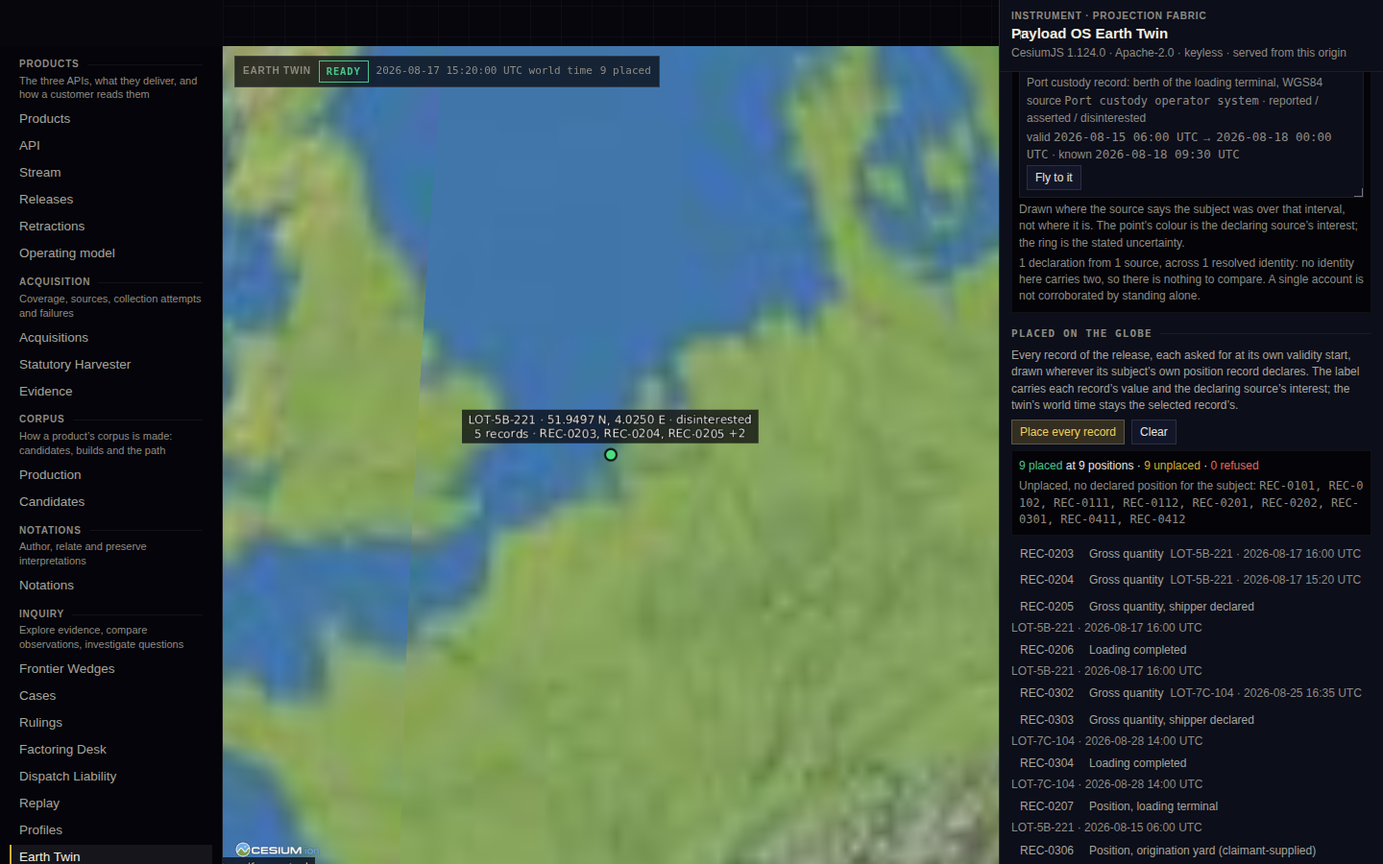
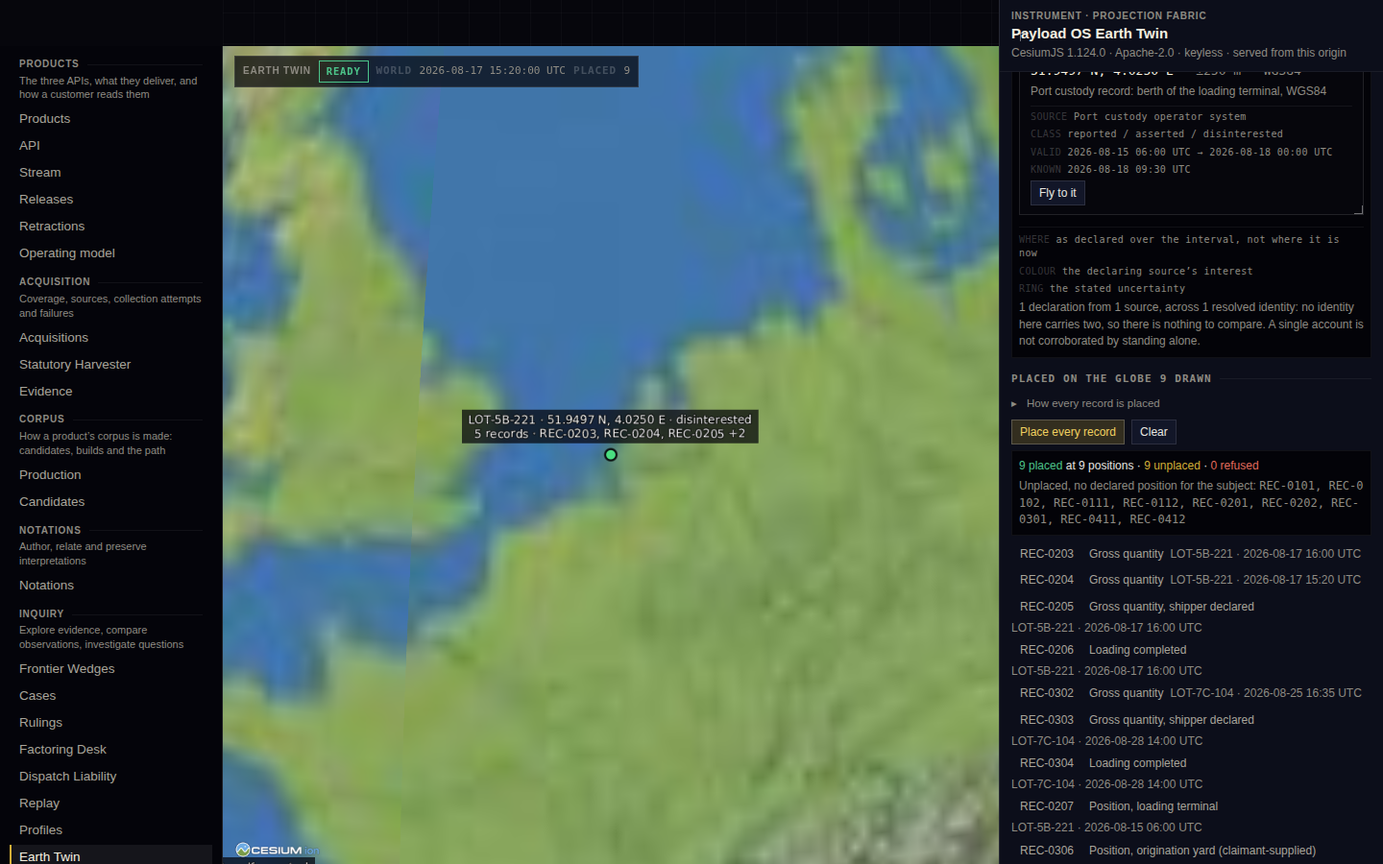
The Earth Twin inspector, dense: readings as ruled lines, provenance as stamps
The references are dense with labelled data and the inspector was dense with
prose. Same information, restructured so a reading is a label and a value and
an explanation is one click away.

The strip over the globe keys its readings. What-this-instrument-is folds with
the engine state in its rule; the renderer string, a hundred characters on a
software GPU, stays in the body because a rule that carried it wrapped the
heading four deep. Time is three ruled readouts, sub-solar DERIVED when the
engine computed it and UNKNOWN when there is no engine to. Corpus-on-the-globe
opens with a RELEASE / VIEW / VIEWER stamp, carries the outcome word in its
rule from the epistemic scale, draws each declared position as a ruled panel
with a SOURCE / CLASS / VALID / KNOWN stamp, and keys its legend as WHERE /
COLOUR / RING. Placed-on-the-globe carries its drawn count and folds the how.
The operator instrument loses a paragraph the rule already said and folds its
two rules behind WRITES NONE. View keys ORBIT / ZOOM / LINK.

Readout accepts structured values without loosening its UNKNOWN guard: a
string or a node with no declared state takes no hue, because a default colour
on content of unknown kind would be a claim nobody made. Part carries a state
word in its rule so a folded section still reads its one fact shut.

The layer pill drew UNAVAILABLE in the refusal red from a private map. A layer
the engine cannot supply is an absence, not a gate declining; it now draws from
[…]

Changed region(s): [[0.7188, 0.0622, 1.0, 0.4978], [0.2812, 0.0622, 0.5, 0.0933]]

diff --git a/src/components/earth/EarthTwin.tsx b/src/components/earth/EarthTwin.tsx
@@ -5,6 +5,7 @@ import type { ProjectionSpec } from '@/projection/spec';
 import { ADOPTED, CLOCK_MEANING, EARTH_ENGINE, EARTH_TWIN_ORIGIN, GEV_SIGNAL_SOURCES, GLOBAL_VIEW, LAYER_STATE_MEANING, NOT_ADOPTED, PLACEMENT_TONE, PLACEMENT_VIEW, TERMS_CLASS_LABEL, TWIN_LAYERS, TWIN_NONCLAIMS, formatView, formatLink, parseLink, selectionFromLink, globeSpec, integrationBlockers, parseView, placementLabel, positionSeparations, soleDeclaration, projectionOutcome, SEPARATION_LOSS, SEPARATION_METHOD, SEPARATION_METRIC, formatMetres, type GeodeticPosition, type PositionConsistency, type SubjectPositions, type LayerState, type ProjectionOutcome, type TwinView } from '@/domain/earth';
 import { CONVENIENCE_MEANING, INSTRUMENT_RULES, conveniencesTaken, type InstrumentReading } from '@/domain/operatorInstrument';
 import { Readout, Rule } from '@/components/hud/Instrument';
+import { EPISTEMIC_OF_LAYER_STATE, EPISTEMIC_OF_PROJECTION } from '@/domain/epistemic';
 import { fmtUtc } from '@/lib/format';
 
 type CesiumModule = typeof import('cesium');
@@ -54,7 +55,6 @@ interface Placement { title: string; validFrom: string; positions: GeodeticPosit
 interface PlaceSummary { placed: number; positions: number; unplaced: string[]; refused: Array<{ recordId: string; code: string }> }
 const ENTITY_PREFIX = 'place:';
 
-const STATE_COLOR: Record<LayerState, string> = { BUNDLED: 'var(--check-passed)', COMPUTED: 'var(--info)', FIXTURE: 'var(--status-conditional)', UNAVAILABLE: 'var(--status-refused)', NOT_INTEGRATED: 'var(--text-muted)' };
 const muted = { color: 'var(--text-secondary)' };
 const faint = { color: 'var(--text-muted)' };
 
@@ -70,21 +70,30 @@ const KEY_LABEL = { NONE: 'no key', FREE_KEY: 'free key', OPTIONAL_KEY: 'optiona
  * nothing: the summary carries the count, so the registry still says
  * twenty-one named and none integrated with the section shut.
  */
-function Part({ title, children, testId, folded }: { title: string; children: ReactNode; testId?: string; folded?: boolean }) {
+function Part({ title, right, children, testId, folded }: { title: string; right?: ReactNode; children: ReactNode; testId?: string; folded?: boolean }) {
   const id = `earth-${title.toLowerCase().replace(/[^a-z0-9]+/g, '-')}`;
+  // The state word rides in the rule after the hairline, so a folded section
+  // still reads its one fact with the section shut.
+  const heading = <h3 id={id}>{title}{right !== undefined && <span className="hud-bar-state">{right}</span>}</h3>;
   if (folded) {
     return (
       <details className="inspector-section inspector-fold" data-testid={testId}>
-        <summary><h3 id={id}>{title}</h3></summary>
+        <summary>{heading}</summary>
         <div className="inspector-fold-body">{children}</div>
       </details>
     );
   }
-  return <section className="inspector-section" aria-labelledby={id} data-testid={testId}><h3 id={id}>{title}</h3>{children}</section>;
+  return <section className="inspector-section" aria-labelledby={id} data-testid={testId}>{heading}{children}</section>;
 }
 
+/**
+ * A layer's state, drawn from the epistemic scale rather than a map of its
+ * own. The map this replaced drew UNAVAILABLE in the refusal red: a layer the
+ * engine cannot supply is an absence, not a gate declining, and the scale
+ * keeps those apart with a dashed grey.
+ */
 function StatePill({ state }: { state: LayerState }) {
-  return <span className="pill text-[10px] px-1.5" style={{ color: STATE_COLOR[state], borderColor: 'currentColor' }} title={LAYER_STATE_MEANING[state]}>{state.replace('_', ' ')}</span>;
+  return <span className="pill text-[10px] px-1.5" data-epistemic={EPISTEMIC_OF_LAYER_STATE[state]} title={LAYER_STATE_MEANING[state]}>{state.replace('_', ' ')}</span>;
 }
 
 /**
@@ -429,8 +438,8 @@ export function EarthTwin({ release, source, records, instrument, assetsReady, l
         <div className="earth-hud" aria-live="polite">
           <span className="label-sm">Earth Twin</span>
           <span className="pill text-[10px] px-1.5" data-testid="twin-status" data-state={status.state} style={{ color: status.state === 'READY' ? 'var(--check-passed)' : status.state === 'LOADING' ? 'var(--status-pending)' : 'var(--status-refused)', borderColor: 'currentColor' }}>{status.state}</span>
-          <span className="mono text-[11px]" style={faint}>{fmtUtc(clock.validAt, { seconds: true })} world time</span>
-          <span className="mono text-[11px]" style={faint} data-testid="earth-placed" data-count={Object.keys(placements).length}>{Object.keys(placements).length} placed</span>
+          <span className="mono text-[11px]" style={faint} data-k="WORLD">{fmtUtc(clock.validAt, { seconds: true })}</span>
+          <span className="mono text-[11px]" style={faint} data-k="PLACED" data-testid="earth-placed" data-count={Object.keys(placements).length}>{Object.keys(placements).length}</span>
         </div>
         {status.state === 'UNAVAILABLE' && (
           <div className="earth-unavailable" role="alert" data-testid="earth-unavailable">
@@ -451,9 +460,11 @@ export function EarthTwin({ release, source, records, instrument, assetsReady, l
           </div>
         </div>
         <div className="inspector-body">
-          <Part title="What this instrument is" testId="earth-instrument">
+          <Part title="What this instrument is" testId="earth-instrument" folded
+            right={status.state === 'READY' ? 'RUNNING' : status.state === 'LOADING' ? 'STARTING' : <span style={{ color: 'var(--status-refused)' }}>NOT RUNNING</span>}>
             <p className="m-0 text-[12.5px]" style={muted}><span className="font-medium" style={{ color: 'var(--text-heading)' }}>{EARTH_ENGINE.role.question}</span> {EARTH_ENGINE.role.role}</p>
             <dl className="kv m-0 text-[12px]">
+              {/* The renderer string can run to a hundred characters on a software GPU; it belongs in the body, not the rule. */}
               <dt>Engine</dt><dd>{status.state === 'READY' ? <span data-testid="earth-renderer">{EARTH_ENGINE.name} on {status.renderer}</span> : status.state === 'LOADING' ? 'Starting…' : <span style={{ color: 'var(--status-refused)' }}>Not running</span>}</dd>
               <dt>Built on</dt><dd><a href={EARTH_TWIN_ORIGIN.repository} style={{ color: 'var(--info)' }}>{EARTH_TWIN_ORIGIN.name}</a> at <span className="mono">{EARTH_TWIN_ORIGIN.commit.slice(0, 12)}</span> · {EARTH_TWIN_ORIGIN.codeLicense}</dd>
               <dt>Source list</dt><dd><span className="mono">{EARTH_TWIN_ORIGIN.dataSourcesPath}</span> blob <span className="mono">{EARTH_TWIN_ORIGIN.dataSourcesBlob.slice(0, 12)}</span></dd>
@@ -478,16 +489,33 @@ export function EarthTwin({ release, source, records, instrument, assetsReady, l
           </Part>
 
           <Part title="Time" testId="earth-time">
-            <dl className="kv m-0 text-[12px]">
-              <dt>Known at</dt><dd><span className="ts">{fmtUtc(clock.knownAt, { seconds: true })}</span><div style={faint}>{CLOCK_MEANING.knownAt}</div></dd>
-              <dt>World time</dt><dd><span className="ts" data-testid="earth-valid-at">{fmtUtc(clock.validAt, { seconds: true })}</span><div style={faint}>{CLOCK_MEANING.validAt} It follows the selected record’s validity start.</div></dd>
-              <dt>Sub-solar</dt><dd data-testid="earth-subsolar">{sun ? <><span className="mono">{sun.latitude.toFixed(2)}°, {sun.longitude.toFixed(2)}°</span> <span style={faint}>· computed by {EARTH_ENGINE.name}{sun.precise ? '' : ' (TEME approximation until the frame data loads)'}</span></> : <span style={faint}>{status.state === 'READY' ? 'computing…' : 'not computed: the engine is not running'}</span>}</dd>
-            </dl>
-            <div><button type="button" className="btn btn-sm" disabled={!sun || status.state !== 'READY'} onClick={() => sun && flyTo({ ...GLOBAL_VIEW, longitude: sun.longitude, latitude: sun.latitude })} data-testid="fly-subsolar">Fly to the sub-solar point</button></div>
+            <div className="flex flex-col gap-1 text-[12px]">
+              <Readout label="Known at" layout="row" value={<span className="ts">{fmtUtc(clock.knownAt, { seconds: true })}</span>} />
+              <Readout label="World time" layout="row" testId="earth-valid-at" value={<span className="ts">{fmtUtc(clock.validAt, { seconds: true })}</span>} />
+              {/* Computed by the engine, so DERIVED when it is; UNKNOWN when there is no engine to compute it. */}
+              <Readout label="Sub-solar" layout="row" testId="earth-subsolar" state={sun ? 'DERIVED' : 'UNKNOWN'}
+                value={sun
+                  ? <><span className="mono">{sun.latitude.toFixed(2)}°, {sun.longitude.toFixed(2)}°</span> <span style={faint}>· computed by {EARTH_ENGINE.name}{sun.precise ? '' : ' (TEME approximation until the frame data loads)'}</span></>
+                  : (status.state === 'READY' ? 'computing…' : 'not computed: the engine is not running')} />
+            </div>
+            <div className="flex flex-wrap items-center gap-2">
+              <button type="button" className="btn btn-sm" disabled={!sun || status.state !== 'READY'} onClick={() => sun && flyTo({ ...GLOBAL_VIEW, longitude: sun.longitude, latitude: sun.latitude })} data-testid="fly-subsolar">Fly to the sub-solar point</button>
+            </div>
+            <details className="text-[11.5px]" style={faint}><summary className="cursor-pointer">What the clocks mean</summary>
+              <dl className="kv m-0 mt-1">
+                <dt>Known at</dt><dd>{CLOCK_MEANING.knownAt}</dd>
+                <dt>World time</dt><dd>{CLOCK_MEANING.validAt} It follows the selected record’s validity start.</dd>
+              </dl>
+            </details>
           </Part>
 
-          <Part title="Corpus on the globe" testId="earth-corpus">
-            <p className="m-0 text-[12px]" style={muted}>Release <span className="id">{release.releaseId}</span> asked for one record at a time, view <span className="mono">GLOBE / GEODETIC / GLOBAL_3D</span>, viewer <span className="mono">COUNTERPARTY_SHARED</span>. The compiler decides; the twin inherits its answer.</p>
+          <Part title="Corpus on the globe" testId="earth-corpus"
+            right={outcome.state === 'ASKING' || outcome.state === 'NONE' ? outcome.state : <span data-epistemic={EPISTEMIC_OF_PROJECTION[outcome.state]}>{outcome.state}</span>}>
+            <div className="hud-stamp hud-stamp-lead">
+              <span data-k="RELEASE">{release.releaseId}</span>
+              <span data-k="VIEW">GLOBE / GEODETIC / GLOBAL_3D</span>
+              <span data-k="VIEWER">COUNTERPARTY_SHARED</span>
+            </div>
             {records.length ? (
               <div className="flex flex-col gap-1">
                 <label htmlFor="earth-record" className="text-[12px]">Record</label>
@@ -508,17 +536,26 @@ export function EarthTwin({ release, source, records, instrument, assetsReady, l
               {outcome.state === 'READY' && <><span style={{ color: 'var(--check-passed)' }}>READY</span><span style={muted}>{outcome.detail}</span>
                 <ul className="m-0 p-0 list-none flex flex-col gap-1" aria-label="Declared positions">
                   {outcome.positions.map((position) => (
-                    <li key={position.positionRecordId} className="surface p-2 flex flex-col gap-0.5" data-position-record={position.positionRecordId} data-interest={position.evidenceClass.interest}>
-                      <div className="flex flex-wrap items-baseline gap-x-2"><span className="id">{position.positionRecordId}</span><span className="label-sm" style={{ color: PLACEMENT_TONE[position.evidenceClass.interest].hex }}>{PLACEMENT_TONE[position.evidenceClass.interest].label}</span><span style={faint}>{position.statusAtKnownAt}</span></div>
-                      <div className="mono">{position.value} <span style={faint}>· ±{position.point.horizontalUncertaintyM ?? '?'} m · {position.point.datum}</span></div>
+                    <li key={position.positionRecordId} className="hud-panel flex flex-col gap-1" data-position-record={position.positionRecordId} data-interest={position.evidenceClass.interest}>
+                      {/* The interest is the one thing the colour on the globe says, so it is the one thing coloured here. */}
+                      <div className="hud-bar"><span>{position.positionRecordId}</span><span className="hud-bar-state" style={{ color: PLACEMENT_TONE[position.evidenceClass.interest].hex }}>{PLACEMENT_TONE[position.evidenceClass.interest].label} · {position.statusAtKnownAt}</span></div>
+                      <div className="mono text-[13px]" style={{ color: 'var(--text-heading)' }}>{position.value} <span style={faint}>· ±{position.point.horizontalUncertaintyM ?? '?'} m · {position.point.datum}</span></div>
                       <div style={faint}>{position.basis}</div>
-                      <div style={faint}>source <span className="mono break-all">{position.source.sourceName ?? position.source.sourceId}</span> · {position.evidenceClass.claimStrength} / {position.evidenceClass.productionClass} / {position.evidenceClass.interest}</div>
-                      <div style={faint}>valid <span className="ts">{fmtUtc(position.validity.validFrom)}</span> → {position.validity.validTo ? <span className="ts">{fmtUtc(position.validity.validTo)}</span> : 'open'} · known <span className="ts">{fmtUtc(position.knownAt)}</span></div>
+                      <div className="hud-stamp" style={{ marginTop: 2, paddingTop: 4 }}>
+                        <span data-k="SOURCE" className="break-all">{position.source.sourceName ?? position.source.sourceId}</span>
+                        <span data-k="CLASS">{position.evidenceClass.claimStrength} / {position.evidenceClass.productionClass} / {position.evidenceClass.interest}</span>
+                        <span data-k="VALID">{fmtUtc(position.validity.validFrom)} → {position.validity.validTo ? fmtUtc(position.validity.validTo) : 'open'}</span>
+                        <span data-k="KNOWN">{fmtUtc(position.knownAt)}</span>
+                      </div>
                       <div><button type="button" className="btn btn-sm" disabled={status.state !== 'READY'} onClick={() => flyTo({ longitude: position.point.longitude, latitude: position.point.latitude, ...PLACEMENT_VIEW })}>Fly to it</button></div>
                     </li>
                   ))}
                 </ul>
-                <span style={faint}>Drawn where the source says the subject was over that interval, not where it is. The point’s colour is the declaring source’s interest; the ring is the stated uncertainty.</span>
+                <div className="hud-stamp" data-testid="earth-legend">
+                  <span data-k="WHERE">as declared over the interval, not where it is now</span>
+                  <span data-k="COLOUR">the declaring source’s interest</span>
+                  <span data-k="RING">the stated uncertainty</span>
+                </div>
                 <DeclaredPositionReading groups={positionSeparations(outcome.positions)} />
                 {soleDeclaration(outcome.positions) && (
                   <span style={faint} data-testid="sole-declaration">{soleDeclaration(outcome.positions)}</span>
@@ -528,8 +565,10 @@ export function EarthTwin({ release, source, records, instrument, assetsReady, l
             </div>
           </Part>
 
-          <Part title="Placed on the globe" testId="earth-placements">
-            <p className="m-0 text-[12px]" style={muted}>Every record of the release, each asked for at its own validity start, drawn wherever its subject’s own position record declares. The label carries each record’s value and the declaring source’s interest; the twin’s world time stays the selected record’s.</p>
+          <Part title="Placed on the globe" testId="earth-placements" right={Object.keys(placements).length > 0 ? `${Object.keys(placements).length} drawn` : undefined}>
+            <details className="text-[11.5px]" style={faint}><summary className="cursor-pointer">How every record is placed</summary>
+              <p className="m-0 mt-1">Every record of the release, each asked for at its own validity start, drawn wherever its subject’s own position record declares. The label carries each record’s value and the declaring source’s interest; the twin’s world time stays the selected record’s.</p>
+            </details>
             <div className="flex flex-wrap items-center gap-2">
               <button type="button" className="btn btn-sm btn-primary" disabled={status.state !== 'READY' || Boolean(placing) || !records.length} onClick={() => void placeAll()} data-testid="place-all">Place every record</button>
               {placing && <span className="text-[12px]" style={faint} role="status">Asking the compiler… {placing.done} / {placing.total}</span>}
@@ -559,7 +598,7 @@ export function EarthTwin({ release, source, records, instrument, assetsReady, l
           </Part>
 
           <Part title={`Operator instrument · ${instrumentReading('positioned')} flyable, ${instrumentReading('void')} void`} testId="earth-operator" folded>
-            <p className="m-0 text-[12px]" style={muted}>The release’s own spatial state from this seat, arranged to be flown rather than read. It is a way of looking and not a thing looked at: nothing here is evidence, and no ruling may cite it.</p>
+            <p className="m-0 text-[12px]" style={muted}>The release’s own spatial state from this seat, arranged to be flown rather than read.</p>
             <ul className="m-0 p-0 list-none flex flex-col gap-1.5" aria-label="Instrument layers" data-testid="operator-layers">
               {instrument.layers.map((entry) => (
                 <li key={entry.id} className="hud-panel text-[12px] flex flex-col gap-1" data-operator-layer={entry.id} data-reading={String(entry.reading)} data-convenience={entry.convenience}>
@@ -583,7 +622,6 @@ export function EarthTwin({ release, source, records, instrument, assetsReady, l
             {instrument.voids.length > 0 && (
               <div className="text-[12px] flex flex-col gap-1" data-testid="operator-voids" data-count={instrument.voids.length}>
                 <Rule label="Where the instrument is blind" right={`${instrument.voids.length} void`} state="UNKNOWN" />
-                <p className="m-0" style={muted}>Subjects this seat holds records about and no position for. There is nowhere to fly to, so they are listed instead of drawn — the records are still selectable.</p>
                 <ul className="m-0 p-0 list-none flex flex-col gap-0.5" aria-label="Subjects with no position">
                   {instrument.voids.map((hole) => {
                     const first = records.find((entry) => entry.subjectId === hole.subjectId);
@@ -601,7 +639,9 @@ export function EarthTwin({ release, source, records, instrument, assetsReady, l
 
             <div className="text-[12px] flex flex-col gap-0.5" data-testid="operator-rules" data-writes={instrument.writes}>
               <Rule label="The two rules this instrument is held to" right="WRITES NONE" />
-              <ol className="m-0 pl-4 flex flex-col gap-0.5" style={faint}>{INSTRUMENT_RULES.map((rule) => <li key={rule}>{rule}</li>)}</ol>
+              <details className="text-[11.5px]" style={faint}><summary className="cursor-pointer">Read the rules</summary>
+                <ol className="m-0 mt-1 pl-4 flex flex-col gap-0.5">{INSTRUMENT_RULES.map((rule) => <li key={rule}>{rule}</li>)}</ol>
+              </details>
             </div>
 
             {/* The frame carries the provenance, where it cannot be cropped away
@@ -643,7 +683,11 @@ export function EarthTwin({ release, source, records, instrument, assetsReady, l
               <button type="button" className="btn btn-sm" disabled={!linkable} onClick={() => void copyLink()}>Copy link</button>
               <span className="text-[11.5px] break-all" style={faint} role="status">{copied}</span>
             </div>
-            <p className="m-0 text-[11.5px]" style={faint}>Drag to orbit, scroll to zoom. A view is a link: the camera is in the URL hash, bounded and validated; a bad hash is ignored, never clamped.</p>
+            <div className="hud-stamp">
+              <span data-k="ORBIT">drag</span>
+              <span data-k="ZOOM">scroll</span>
+              <span data-k="LINK">the camera, in the hash, bounded and validated — a bad hash is ignored, never clamped</span>
+            </div>
           </Part>
         </div>
       </aside>

diff --git a/src/components/hud/Instrument.tsx b/src/components/hud/Instrument.tsx
@@ -70,7 +70,13 @@ export function Rule({ label, right, state }: { label: string; right?: ReactNode
  */
 export function Readout({ label, value, state, unit, layout = 'stack', testId }: {
   label: string;
-  value: number | string;
+  /**
+   * A number, a string, or structured content. The string 'UNKNOWN' is drawn
+   * as unknown whatever `state` says. A bare number with no state is MEASURED,
+   * as before; a string or a node with no state takes no hue at all, because a
+   * default colour on content of unknown kind would be a claim nobody made.
+   */
+  value: ReactNode;
   /** Ignored when the value is UNKNOWN, which is drawn as unknown regardless. */
   state?: Epistemic;
   unit?: string;
@@ -79,9 +85,10 @@ export function Readout({ label, value, state, unit, layout = 'stack', testId }:
   testId?: string;
 }) {
   const unknown = value === 'UNKNOWN';
-  const resolved: Epistemic = unknown ? 'UNKNOWN' : (state ?? epistemicOfReading(typeof value === 'number' ? value : 0));
+  const primitive = typeof value === 'number' || typeof value === 'string';
+  const resolved: Epistemic | undefined = unknown ? 'UNKNOWN' : (state ?? (typeof value === 'number' ? epistemicOfReading(value) : undefined));
   return (
-    <div className="hud-readout" data-layout={layout} data-epistemic={resolved} data-testid={testId} data-value={String(value)}>
+    <div className="hud-readout" data-layout={layout} data-epistemic={resolved} data-testid={testId} data-value={primitive ? String(value) : undefined}>
       <span className="hud-readout-label">{label}</span>
       <span className="hud-readout-value">
         {typeof value === 'number' ? value.toLocaleString('en-US') : value}

diff --git a/src/app/globals.css b/src/app/globals.css
@@ -686,6 +686,10 @@ details[open] > summary::before { transform: rotate(90deg); }
   border-top: var(--hud-hair) solid var(--border-subtle);
 }
 .hud-stamp > span::before { content: attr(data-k) ' '; color: var(--border-strong); }
+/* A stamp that opens a section rather than closing one: no rule above it. */
+.hud-stamp-lead { margin-top: 0; padding-top: 0; border-top: 0; }
+/* The strip over the globe keys its readings the same way. */
+.earth-hud > [data-k]::before { content: attr(data-k) ' '; color: var(--border-strong); font-weight: 600; letter-spacing: 0.08em; }
 
 /* ── The registration ground ─────────────────────────────────────────────
    A grid at one pitch, drawn faintly, so a surface reads as ruled rather than
@@ -730,7 +734,8 @@ details[open] > summary::before { transform: rotate(90deg); }
   background: var(--border-subtle);
   align-self: center;
 }
-.hud-readout[data-layout='row'] > .hud-readout-value { order: 2; flex: none; font-size: var(--text-md); }
+.hud-readout[data-layout='row'] > .hud-readout-value { order: 2; flex: 0 1 auto; min-width: 0; text-align: right; overflow-wrap: anywhere; font-size: var(--text-md); }
+.hud-readout[data-layout='row']::after { flex: 1 0 12px; }
 
 /* ── The segmented meter ─────────────────────────────────────────────────
    Discrete cells, never a continuous bar. A filled cell means a measured

diff --git a/docs/EARTH_TWIN.md b/docs/EARTH_TWIN.md
@@ -317,3 +317,36 @@ regular Playwright tests pass at desktop and Pixel 7, with a second axe pass
 taken with the section open (the page's own pass runs with it shut, so its
 contents are `display:none` and unexamined); screenshot
 `docs/screenshots/00m-earth-operator-instrument.png`.
+
+## The density pass (2026-09-08)
+
+The references are dense with labelled data and the inspector was dense with
+prose. Same information, restructured so a reading is a label and a value and
+an explanation is one click away.
+
+- **The strip over the globe** keys its readings: `WORLD`, `PLACED`.
+- **What this instrument is** folds, with the engine state carried in its rule.
+  The renderer string — a hundred characters on a software GPU — stays in the
+  body; a rule that carried it wrapped the heading four deep.
+- **Time** is three ruled readouts. Sub-solar draws `DERIVED` when the engine
+  computed it and `UNKNOWN` when there is no engine to compute it. The two
+  clock meanings sit behind one disclosure.
+- **Corpus on the globe** opens with a `RELEASE / VIEW / VIEWER` stamp instead
+  of a sentence; the outcome word rides in the section rule, coloured from the
+  epistemic scale; each declared position is a ruled panel — the identifier
+  ruled to the source's interest and standing, the value, the source's own
+  basis, and a `SOURCE / CLASS / VALID / KNOWN` stamp — and the legend sentence
+  became `WHERE / COLOUR / RING`.
+- **Placed on the globe** carries its drawn count in the rule and folds the
+  paragraph on how placement works.
+- **Operator instrument** lost the paragraph over the void list (the rule and
+  the rows say it) and folds its two rules behind the `WRITES NONE` label.
+- **View** turned its trailing prose into `ORBIT / ZOOM / LINK`.
+
+The layer pill had a private colour map that drew `UNAVAILABLE` in the refusal
+red. A layer the engine cannot supply is an absence, not a gate declining, so
+it now draws from the epistemic scale as `UNKNOWN`: dashed grey. Same class of
+flattening as the retracted record chip, found the same way.
+
+Every pinned string stayed inside the container its test reads: 136 twin and
+primitive unit tests, the earth browser spec at desktop and Pixel 7.

diff --git a/docs/INSTRUMENT_LANGUAGE.md b/docs/INSTRUMENT_LANGUAGE.md
@@ -168,6 +168,12 @@ than silently accepted.
   working surface. Applied in CSS against classes the markup already carried, so
   the estate inherited the language without every page being rewritten and
   without the navigation, table and inspector tests changing what they assert.
+- The whole Earth Twin inspector, in a density pass recorded in
+  [Earth Twin](EARTH_TWIN.md): readings as ruled label-and-value lines, provenance
+  as keyed stamps, explanations behind disclosures. `Readout` grew to accept
+  structured values without loosening its UNKNOWN guard — a string or a node
+  with no declared state takes no hue, because a default colour on content of
+  unknown kind would be a claim nobody made.
 - The operator instrument on `/earth`: each layer as a drawn panel with a ruled
   readout, the void list under an `UNKNOWN` rule, and the release, seat and
   knowledge time stamped into the frame.
